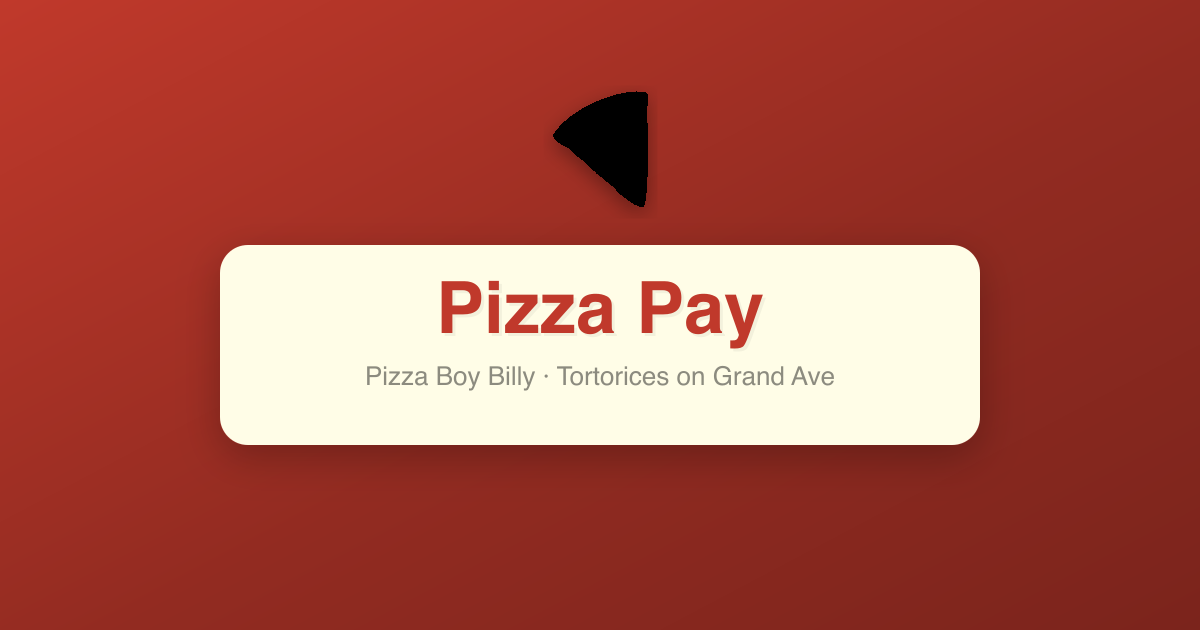
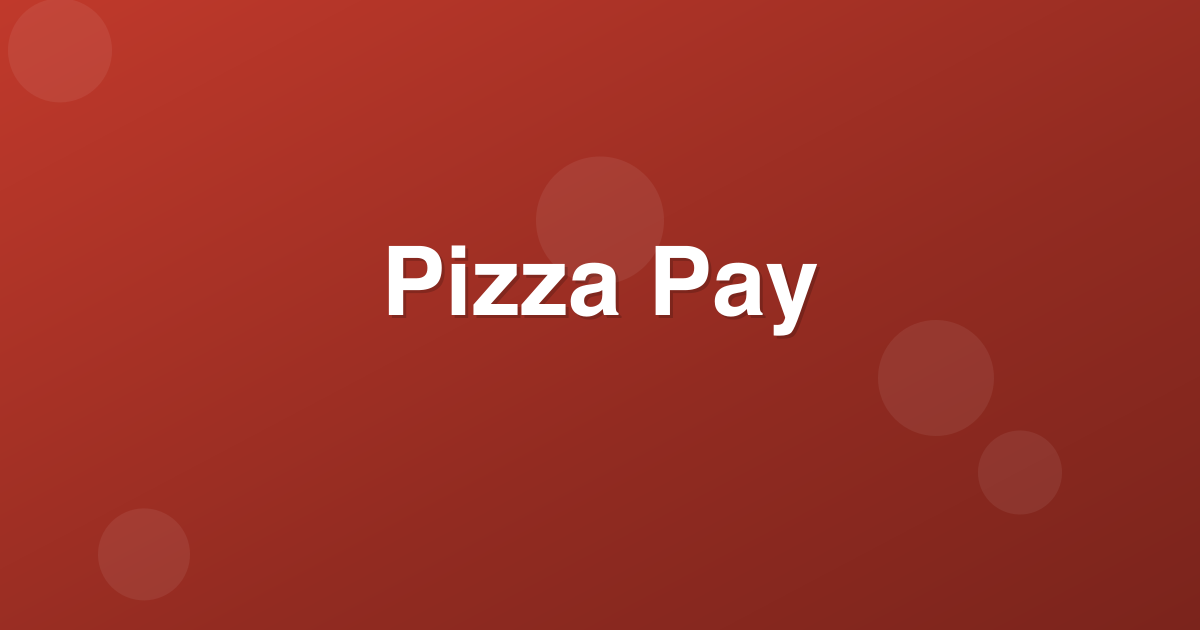
sync

Changed region(s): [[0.185, 0.3619, 0.8325, 0.7238], [0.4625, 0.1508, 0.555, 0.3317]]

diff --git a/ui/scripts/generate-metadata.ts b/ui/scripts/generate-metadata.ts
@@ -49,89 +49,38 @@ async function main() {
   await sharp(Buffer.from(metadataSvg)).png().toFile(metadataPath);
 }
 
-function pizzaSlicePath(cx: number, cy: number, r: number) {
-  const sliceAngle = Math.PI / 3;
-  const startAngle = -Math.PI / 2 - sliceAngle / 2;
-  const endAngle = -Math.PI / 2 + sliceAngle / 2;
-  const crustR = r;
-  const tipX = cx;
-  const tipY = cy + r * 0.55;
-  const arcX1 = cx + crustR * Math.cos(startAngle);
-  const arcY1 = cy + crustR * Math.sin(startAngle);
-  const arcX2 = cx + crustR * Math.cos(endAngle);
-  const arcY2 = cy + crustR * Math.sin(endAngle);
-  return `M ${tipX} ${tipY} L ${arcX1} ${arcY1} A ${crustR} ${crustR} 0 0 1 ${arcX2} ${arcY2} Z`;
-}
-
 function buildMetadataSvg() {
-  const cx = SOCIAL_IMAGE_WIDTH / 2;
-  const cy = SOCIAL_IMAGE_HEIGHT / 2;
-
-  const sliceR = 110;
-  const sliceCx = cx;
-  const sliceCy = cy - 60;
-  const slicePath = pizzaSlicePath(sliceCx, sliceCy, sliceR);
-
-  const crustStartAngle = -Math.PI / 2 - Math.PI / 3 / 2;
-  const crustEndAngle = -Math.PI / 2 + Math.PI / 3 / 2;
-  const crustInner = sliceR - 16;
-  const crustOuter = sliceR;
-  const ci1x = sliceCx + crustInner * Math.cos(crustStartAngle);
-  const ci1y = sliceCy + crustInner * Math.sin(crustStartAngle);
-  const co1x = sliceCx + crustOuter * Math.cos(crustStartAngle);
-  const co1y = sliceCy + crustOuter * Math.sin(crustStartAngle);
-  const ci2x = sliceCx + crustInner * Math.cos(crustEndAngle);
-  const ci2y = sliceCy + crustInner * Math.sin(crustEndAngle);
-  const co2x = sliceCx + crustOuter * Math.cos(crustEndAngle);
-  const co2y = sliceCy + crustOuter * Math.sin(crustEndAngle);
-  const crustPath = `M ${co1x} ${co1y} A ${crustOuter} ${crustOuter} 0 0 1 ${co2x} ${co2y} L ${ci2x} ${ci2y} A ${crustInner} ${crustInner} 0 0 0 ${ci1x} ${ci1y} Z`;
+  const W = SOCIAL_IMAGE_WIDTH;
+  const H = SOCIAL_IMAGE_HEIGHT;
+  const cx = W / 2;
+  const cy = H / 2;
 
   const bgItems = [
-    { cx: 90,  cy: 80,  r: 52, rotate: -12 },
-    { cx: SOCIAL_IMAGE_WIDTH - 80, cy: SOCIAL_IMAGE_HEIGHT - 90, r: 44, rotate: 18 },
-    { cx: 60,  cy: SOCIAL_IMAGE_HEIGHT - 70, r: 38, rotate: 22 },
-    { cx: SOCIAL_IMAGE_WIDTH - 60, cy: 90, r: 36, rotate: -20 },
-    { cx: SOCIAL_IMAGE_WIDTH / 2 - 280, cy: SOCIAL_IMAGE_HEIGHT / 2 + 40, r: 30, rotate: 8 },
-    { cx: SOCIAL_IMAGE_WIDTH / 2 + 310, cy: SOCIAL_IMAGE_HEIGHT / 2 - 30, r: 34, rotate: -8 },
+    { x: 0.05 * W, y: 0.08 * H, r: 52, rotate: -12 },
+    { x: 0.85 * W, y: 0.75 * H, r: 42, rotate:  18 },
+    { x: 0.50 * W, y: 0.35 * H, r: 64, rotate:  -6 },
+    { x: 0.12 * W, y: 0.88 * H, r: 46, rotate:  22 },
+    { x: 0.78 * W, y: 0.60 * H, r: 58, rotate: -28 },
   ];
 
   return `<?xml version="1.0" encoding="UTF-8"?>
-<svg xmlns="http://www.w3.org/2000/svg" width="${SOCIAL_IMAGE_WIDTH}" height="${SOCIAL_IMAGE_HEIGHT}" viewBox="0 0 ${SOCIAL_IMAGE_WIDTH} ${SOCIAL_IMAGE_HEIGHT}">
+<svg xmlns="http://www.w3.org/2000/svg" width="${W}" height="${H}" viewBox="0 0 ${W} ${H}">
   <defs>
     <linearGradient id="bg-grad" x1="0" y1="0" x2="1" y2="1">
-      <stop offset="0%" stop-color="#c0392b"/>
-      <stop offset="55%" stop-color="#922b21"/>
+      <stop offset="0%"   stop-color="#c0392b"/>
+      <stop offset="60%"  stop-color="#922b21"/>
       <stop offset="100%" stop-color="#7b241c"/>
     </linearGradient>
-    <filter id="slice-shadow" x="-30%" y="-30%" width="160%" height="160%">
-      <feDropShadow dx="0" dy="8" stdDeviation="18" flood-color="#000000" flood-opacity="0.4"/>
-    </filter>
   </defs>
 
   <rect width="100%" height="100%" fill="url(#bg-grad)"/>
 
-  ${bgItems.map(({ cx: bx, cy: by, r, rotate }) => {
-    const sp = pizzaSlicePath(bx, by, r);
-    const tipX = bx;
-    const tipY = by + r * 0.55;
-    return `<g transform="rotate(${rotate} ${tipX} ${tipY})" opacity="0.07">
-    <path d="${sp}" fill="#f39c12"/>
-    </g>`;
-  }).join("\n  ")}
+  ${bgItems.map(({ x, y, r, rotate }) =>
+    `<circle cx="${x}" cy="${y}" r="${r}" fill="white" opacity="0.07" transform="rotate(${rotate} ${x} ${y})"/>`
+  ).join("\n  ")}
 
-  <g filter="url(#slice-shadow)">
-    <path d="${slicePath}" fill="#f39c12"/>
-    <path d="${crustPath}" fill="#e67e22"/>
-    <circle cx="${sliceCx - 18}" cy="${sliceCy + 10}" r="7" fill="#c0392b" opacity="0.85"/>
-    <circle cx="${sliceCx + 22}" cy="${sliceCy + 20}" r="5.5" fill="#c0392b" opacity="0.85"/>
-    <circle cx="${sliceCx}"     cy="${sliceCy + 38}" r="6" fill="#c0392b" opacity="0.85"/>
-    <circle cx="${sliceCx - 30}" cy="${sliceCy + 32}" r="4.5" fill="#27ae60" opacity="0.7"/>
-    <circle cx="${sliceCx + 30}" cy="${sliceCy + 5}"  r="4" fill="#27ae60" opacity="0.7"/>
-    <circle cx="${sliceCx - 8}"  cy="${sliceCy - 10}" r="3.5" fill="#27ae60" opacity="0.7"/>
-  </g>
-
-  <text x="${cx + 2}" y="${sliceCy + sliceR + 80 + 2}" text-anchor="middle" font-family="IBM Plex Sans, Segoe UI, sans-serif" font-size="80" font-weight="700" fill="rgba(0,0,0,0.15)">${APP_NAME}</text>
-  <text x="${cx}" y="${sliceCy + sliceR + 80}" text-anchor="middle" font-family="IBM Plex Sans, Segoe UI, sans-serif" font-size="80" font-weight="700" fill="#ffffff">${APP_NAME}</text>
+  <text x="${cx + 3}" y="${cy + 3}" text-anchor="middle" font-family="IBM Plex Sans, Segoe UI, sans-serif" font-size="96" font-weight="600" fill="rgba(0,0,0,0.18)">${APP_NAME}</text>
+  <text x="${cx}"     y="${cy}"     text-anchor="middle" font-family="IBM Plex Sans, Segoe UI, sans-serif" font-size="96" font-weight="600" fill="#ffffff">${APP_NAME}</text>
 
   <title>${METADATA_IMAGE_ALT}</title>
 </svg>`;

diff --git a/README.md b/README.md
@@ -5,15 +5,13 @@
 
 <div align="center">
 
-<h1 style="font-size: 4.25rem; font-weight: 800; line-height: 1; margin: 0;">pizza.pingpay.io</h1>
+<img src="ui/public/metadata.png" alt="Pizza Pay" width="600" />
 
-<img src="ui/src/assets/under-construction.gif" alt="Under construction" width="380" />
+<h1>Pizza Pay</h1>
+
+A white label implementation of PingPay for P2P point-of-sale pizza purchases.
 
 </div>
-
-A crypto-native point-of-sale app for **Tortorices on Grand Ave**. The cashier rings up an order and generates a QR code. The customer scans it, picks a token and chain, and pays in USDC via [PingPay](https://pingpay.io/).
-
-Built on [everything.dev](https://everything.dev) — Module Federation + [every-plugin](https://plugin.everything.dev/) + [NEAR Protocol](https://near.dev/).
 
 ## Quick Start
 
